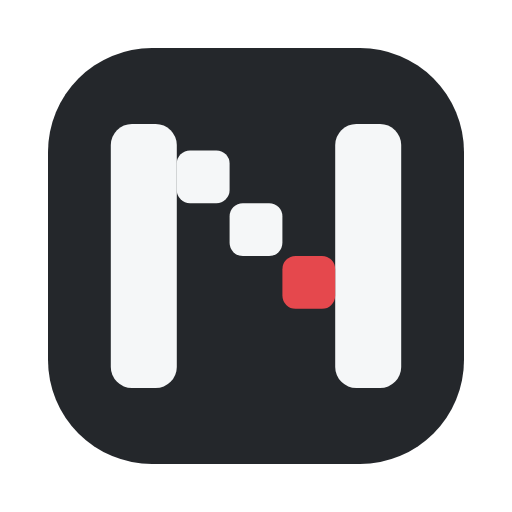
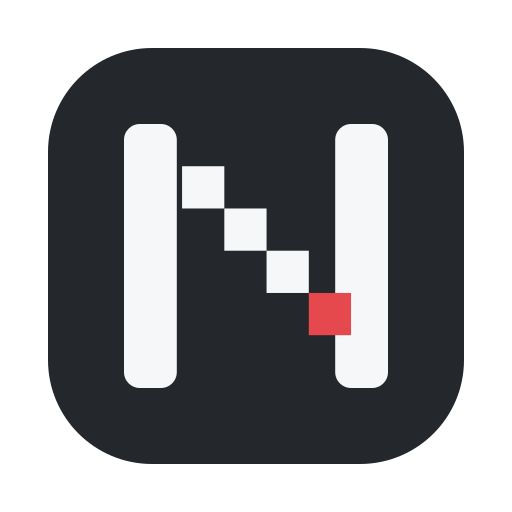
feat(brand): 更新像素N标识与页头锁字

diff --git a/src/components/layout/BrandMark.tsx b/src/components/layout/BrandMark.tsx
@@ -22,9 +22,16 @@ const SIZE_CLASSES: Record<NonNullable<BrandMarkProps['size']>, string> = {
   lg: 'w-10 h-10 text-lg',
 };
 
+/** 内置标识的深色底板：尺寸、圆角与内衬和 favicon / OG 图标同源 */
+const TILE_CLASSES: Record<NonNullable<BrandMarkProps['size']>, string> = {
+  sm: 'w-5 h-5 rounded-[6px] p-[3px]',
+  md: 'w-8 h-8 rounded-[9px] p-[5px]',
+  lg: 'w-10 h-10 rounded-[11px] p-[6px]',
+};
+
 /**
- * 内置品牌图形：微圆角 N 字骨架 + 方形像素导航路径
- * 仅终点像素使用 .brand-pixel-accent，参考 KWGT 的单点强调
+ * 内置品牌图形：像素阶梯 N，呼应 KWGTDot47 点阵标题
+ * 固定使用浅色填充以适配深色底板；终点像素为品牌红
  */
 function NavDeckGlyph() {
   return (
@@ -32,20 +39,19 @@ function NavDeckGlyph() {
       viewBox="0 0 32 32"
       aria-hidden="true"
       focusable="false"
-      className="h-full w-full text-primary"
+      className="h-full w-full"
     >
-      <rect x="5" y="6" width="5" height="20" rx="1.6" fill="currentColor" />
-      <rect x="22" y="6" width="5" height="20" rx="1.6" fill="currentColor" />
-      <rect x="10" y="8" width="4" height="4" rx="1" fill="currentColor" />
-      <rect x="14" y="12" width="4" height="4" rx="1" fill="currentColor" />
+      <rect x="6" y="6" width="4" height="20" rx="1.2" fill="#F5F7F8" />
+      <rect x="22" y="6" width="4" height="20" rx="1.2" fill="#F5F7F8" />
+      <rect x="10.4" y="9.2" width="3.2" height="3.2" fill="#F5F7F8" />
+      <rect x="13.6" y="12.4" width="3.2" height="3.2" fill="#F5F7F8" />
+      <rect x="16.8" y="15.6" width="3.2" height="3.2" fill="#F5F7F8" />
       <rect
-        x="18"
-        y="16"
-        width="4"
-        height="4"
-        rx="1"
-        fill="currentColor"
-        className="brand-pixel-accent"
+        x="20"
+        y="18.8"
+        width="3.2"
+        height="3.2"
+        fill="#E5484D"
       />
     </svg>
   );
@@ -60,8 +66,8 @@ function NavDeckGlyph() {
  *
  * 视觉规范：
  * - 默认标识延续像素语言，并加入导航路径意象
- * - 不加底色和边框，让图形标记保持轻盈
- * - 自定义 Logo 按原比例完整展示
+ * - 深色圆角底板与 favicon / OG 图标同源，让图形更像一枚徽标
+ * - 自定义 Logo 保持用户上传原图，不套底板
  */
 export function BrandMark({
   size = 'md',
@@ -85,7 +91,9 @@ export function BrandMark({
           className="h-full w-full object-contain"
         />
       ) : (
-        <NavDeckGlyph />
+        <span className={`flex items-center justify-center bg-[#24272B] ${TILE_CLASSES[size]}`}>
+          <NavDeckGlyph />
+        </span>
       )}
     </span>
   );

diff --git a/src/components/layout/FloatingLogo.tsx b/src/components/layout/FloatingLogo.tsx
@@ -29,10 +29,10 @@ export function FloatingLogo({
       href="/"
       title={brand.title}
       aria-label={brand.title}
-      className="fixed left-8 top-7 z-50 flex items-center gap-3 py-1 text-primary opacity-95 drop-shadow-sm transition-opacity hover:opacity-100 focus-visible:outline-2 focus-visible:outline-accent"
+      className="fixed left-8 top-7 z-50 flex items-center gap-1.5 py-1 text-primary opacity-95 drop-shadow-sm transition-opacity hover:opacity-100 focus-visible:outline-2 focus-visible:outline-accent"
     >
       {brand.showLogo && (
-        <BrandMark size="md" logo={brand.logo} aria-label={brand.title} />
+        <BrandMark size="lg" logo={brand.logo} aria-label={brand.title} />
       )}
       {brand.showTitle && (
         <BrandTitle

diff --git a/src/app/globals.css b/src/app/globals.css
@@ -2,6 +2,7 @@
 
 @import "tailwindcss/theme.css" layer(theme);
 @import "tailwindcss/preflight.css" layer(base);
+@import "@astryxdesign/core/reset.css";
 @import "@astryxdesign/core/astryx.css";
 @import "@astryxdesign/theme-neutral/theme.css";
 @import "@astryxdesign/core/tailwind-theme.css";
@@ -135,7 +136,7 @@ html[data-theme="dark"] .widget-surface:hover {
 }
 
 .brand-title-floating {
-  font-size: 1.5rem;
+  font-size: 1.625rem;
 }
 
 .brand-title-lg {
